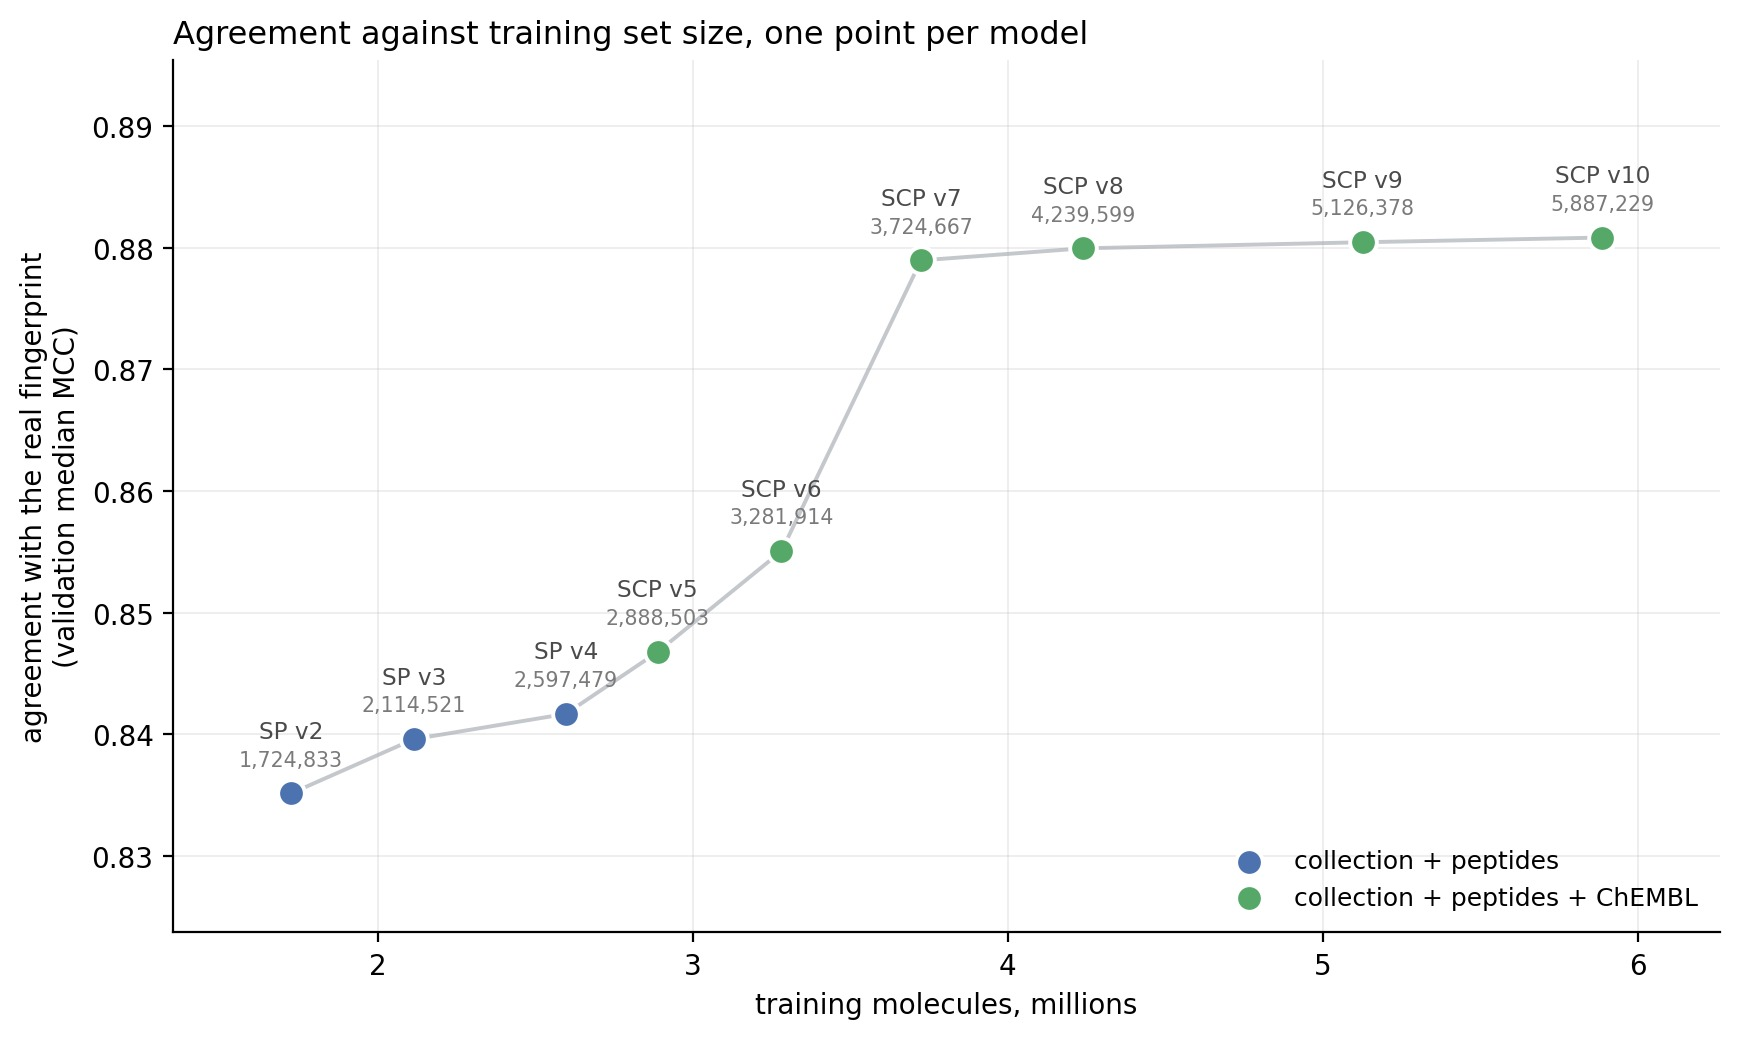
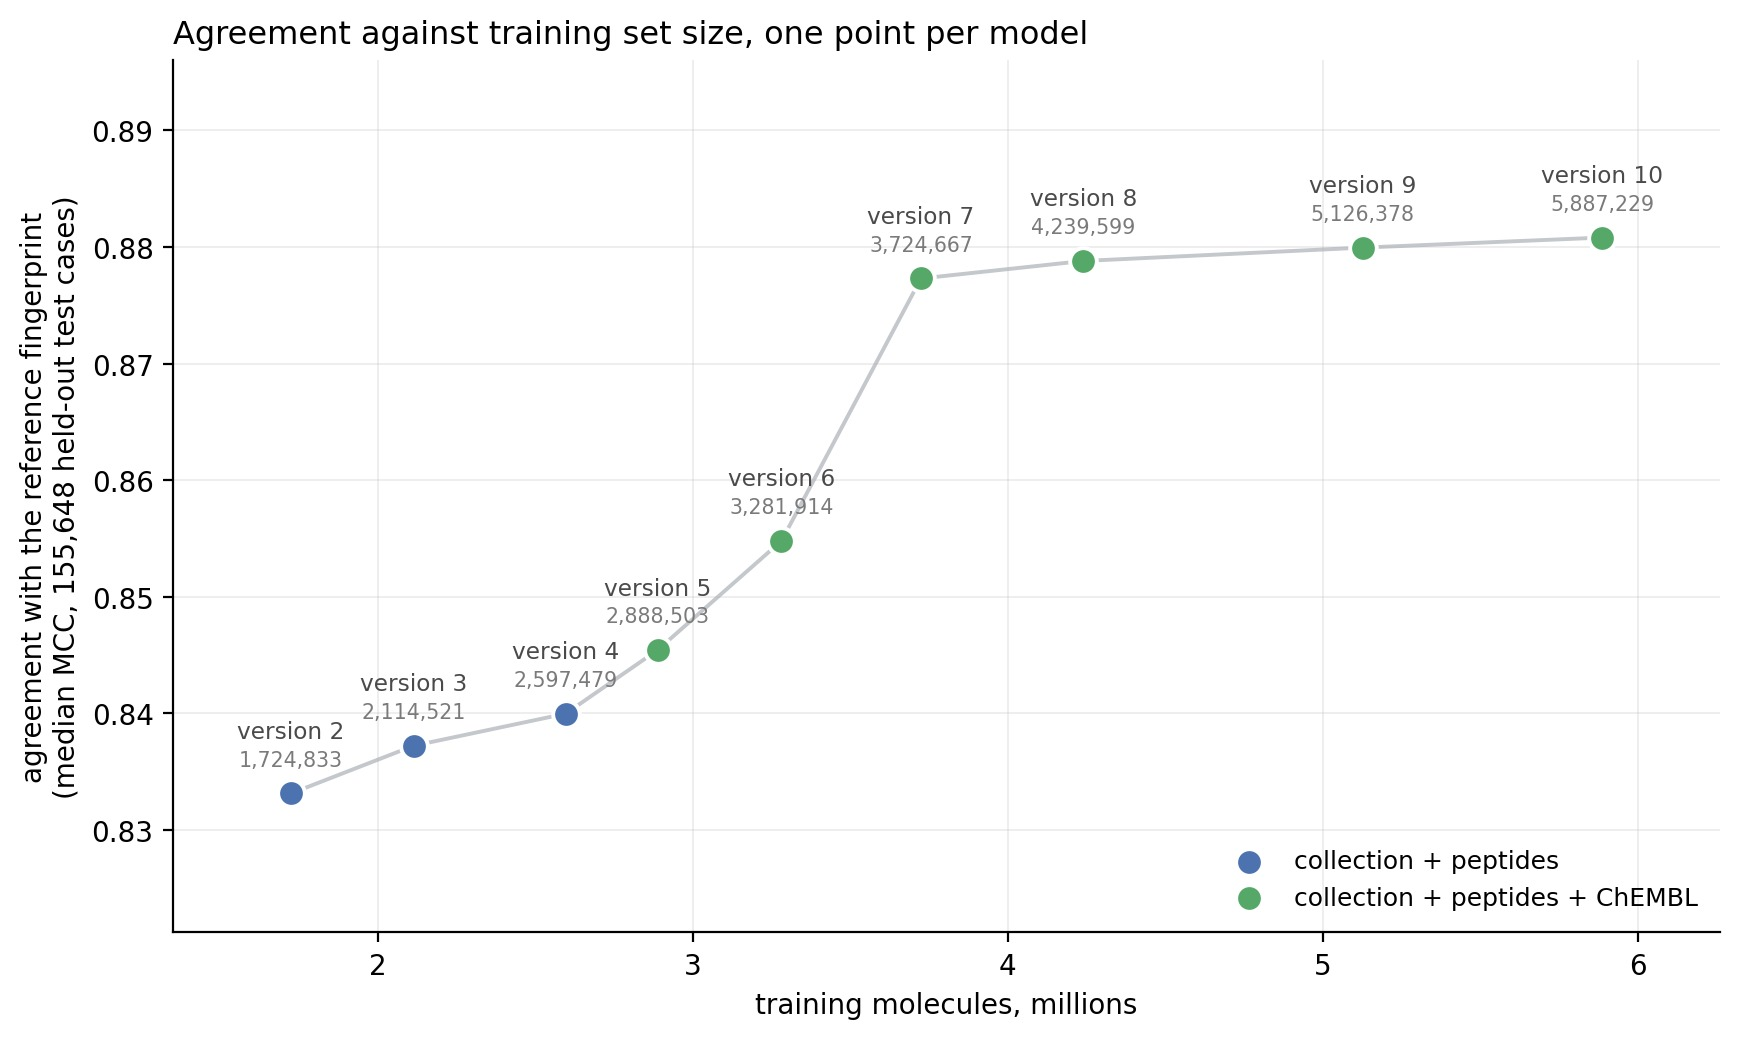
Figure 9 is measured on all 155,648 test cases, not a sample
The agreement curve was recomputed on every test case rather than a
5,000 molecule sample, and its axis now reads "median MCC, 155,648
held-out test cases". The alt text called the plotted quantity a
validation statistic and gave no population; it now states what the
curve measures and the set it is measured on.

Claude-Session: https://claude.ai/code/session_015ZSeUKPi5XUW6t8jZLsfnb

diff --git a/README.md b/README.md
@@ -478,7 +478,7 @@ three sources.*
 **What that buys.** Agreement against training set size, one point per
 release.
 
-![Median MCC against training set size, one point per model from SP v2 to version 10, on a common held-out set](assets/agreement-vs-training-size.jpg)
+![Agreement with the reference fingerprint against training set size, one point per release from SP v2 to version 10, every point measured on the same held-out set of 155,648 test cases](assets/agreement-vs-training-size.jpg)
 
 *Agreement with the real fingerprint against training set size. Returns from growth in the training set are real but diminishing.*
 
